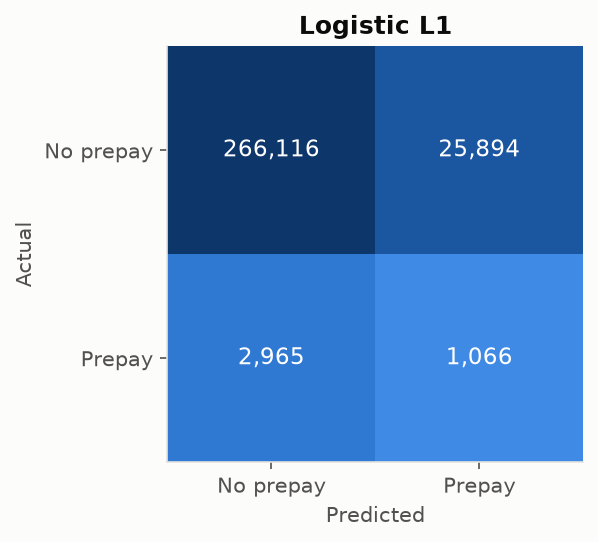
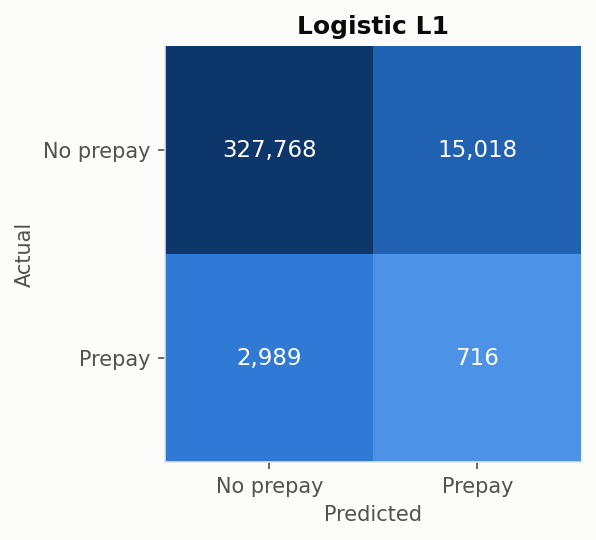
Fix origination column layout for 31-column sample files; add full real-data results
The sample files have 31 origination columns (one seller/servicer name
column), not the User Guide's 32, so super_conforming, relief_refi and
io_indicator were read one position too far (super_conforming held
pre-relief-refi loan ids, giving ~1,800 spurious one-hot features).
freddie.py now picks the layout from the column count.

Results: vintages 2012-2022, 5,000 loans each, split by loan, 104 features.
Best test PR-AUC 0.038 (gradient boosting, neural net) vs 0.011 random.
Leakage check (L2 logistic): paper setup PR-AUC 0.987 vs fixed 0.031.

diff --git a/prepay/freddie.py b/prepay/freddie.py
@@ -102,9 +102,21 @@ def _n_columns(raw_dir: Path, year: int, kind: str) -> int:
     return first.rstrip("\r\n").count("|") + 1
 
 
+def _layout(kind: str, colmap: dict, ncol: int) -> dict:
+    """Adjust column positions to the file's actual layout.
+
+    The User Guide layout has 32 origination columns with separate seller (23)
+    and servicer (24) name columns. The sample files we downloaded have 31: a
+    single name column at 23, so every later column sits one position earlier.
+    """
+    if kind == "orig" and ncol == 31:
+        return {(i - 1 if i >= 24 else i): n for i, n in colmap.items()}
+    return colmap
+
+
 def _read(raw_dir, year, kind, colmap, chunksize=None):
     ncol = _n_columns(raw_dir, year, kind)
-    use = {i: n for i, n in colmap.items() if i < ncol}
+    use = {i: n for i, n in _layout(kind, colmap, ncol).items() if i < ncol}
     fh = _open_member(raw_dir, year, kind)
     reader = pd.read_csv(
         io.TextIOWrapper(fh, encoding="latin-1"),

diff --git a/results/RESULTS.md b/results/RESULTS.md
@@ -1,0 +1,55 @@
+# Results
+
+_Generated 2026-09-30 19:48 by `python run_all.py`._
+
+## Data
+
+- Vintages: 2012, 2014, 2016, 2018, 2020, 2022
+- Loans: 29,982  |  loan-months: 1,722,603  |  features: 104
+- Monthly prepayment rate: 1.08% (so always answering 'no prepayment' is already 98.93% accurate on test)
+- Split: **loan**, train / val / test rows = 1,031,599 / 344,513 / 346,491
+- Decision threshold for each model: the one with the best F1 on the validation set.
+
+## Test-set performance
+
+| Model | Accuracy | Precision | Recall | F1 | PR-AUC | ROC-AUC | True no-prepay | True prepay | Fit (s) |
+|---|---|---|---|---|---|---|---|---|---|
+| Gradient boosting | 96.11% | 0.062 | 0.185 | 0.093 | **0.038** | 0.756 | 96.95% | 18.54% | 57.8 |
+| Neural network | 96.96% | 0.064 | 0.135 | 0.087 | **0.038** | 0.739 | 97.86% | 13.55% | 353.2 |
+| Logistic L1 | 94.80% | 0.046 | 0.193 | 0.074 | **0.031** | 0.727 | 95.62% | 19.33% | 34.6 |
+| Logistic L2 | 94.77% | 0.045 | 0.193 | 0.073 | **0.031** | 0.727 | 95.58% | 19.27% | 7.1 |
+| Logistic | 94.79% | 0.045 | 0.192 | 0.073 | **0.031** | 0.727 | 95.61% | 19.19% | 8.5 |
+| GDA (linear) | 93.96% | 0.041 | 0.210 | 0.069 | **0.030** | 0.721 | 94.75% | 21.03% | 14.8 |
+| GDA (quadratic) | 92.14% | 0.030 | 0.200 | 0.052 | **0.021** | 0.660 | 92.92% | 20.00% | 68.1 |
+| SVM (RBF) | 90.37% | 0.021 | 0.177 | 0.038 | **0.017** | 0.609 | 91.16% | 17.65% | 5.4 |
+| SVM (poly) | 89.60% | 0.019 | 0.176 | 0.035 | **0.015** | 0.576 | 90.38% | 17.57% | 3.3 |
+| SVM (sigmoid) | 90.63% | 0.014 | 0.113 | 0.025 | **0.012** | 0.544 | 91.49% | 11.26% | 0.9 |
+| Baseline (always 'no') | 98.93% | 0.000 | 0.000 | 0.000 | **0.011** | 0.500 | 100.00% | 0.00% | 0.2 |
+
+Sorted by PR-AUC (area under the precision-recall curve), the most informative single number when the positive class is rare. "True no-prepay" and "True prepay" are the paper's Table 1 columns (specificity and recall).
+
+![PR-AUC](figures/pr_auc.png)
+
+![PR curves](figures/pr_curves.png)
+
+## Leakage check: paper setup vs fixed setup
+
+Same model (L2 logistic regression), same loans. The paper setup labels each row "prepaid this month", keeps the payoff row (where the balance is already 0) and splits rows at random.
+
+| Setup | Accuracy | Precision | Recall | PR-AUC |
+|---|---|---|---|---|
+| Paper (leaky) | 99.95% | 0.972 | 0.985 | 0.987 |
+| Fixed | 94.77% | 0.045 | 0.193 | 0.031 |
+
+![Leakage demo](figures/leakage_demo.png)
+
+## Other figures
+
+- `figures/confusion_<model>.png` - confusion matrix per model (test set)
+- `figures/pca_3d.png` - 3-component PCA of the training features
+- `figures/top_features.png` - largest L1 logistic regression coefficients
+- `figures/roc_auc.png` - ROC-AUC per model
+
+![PCA](figures/pca_3d.png)
+
+![Top features](figures/top_features.png)
